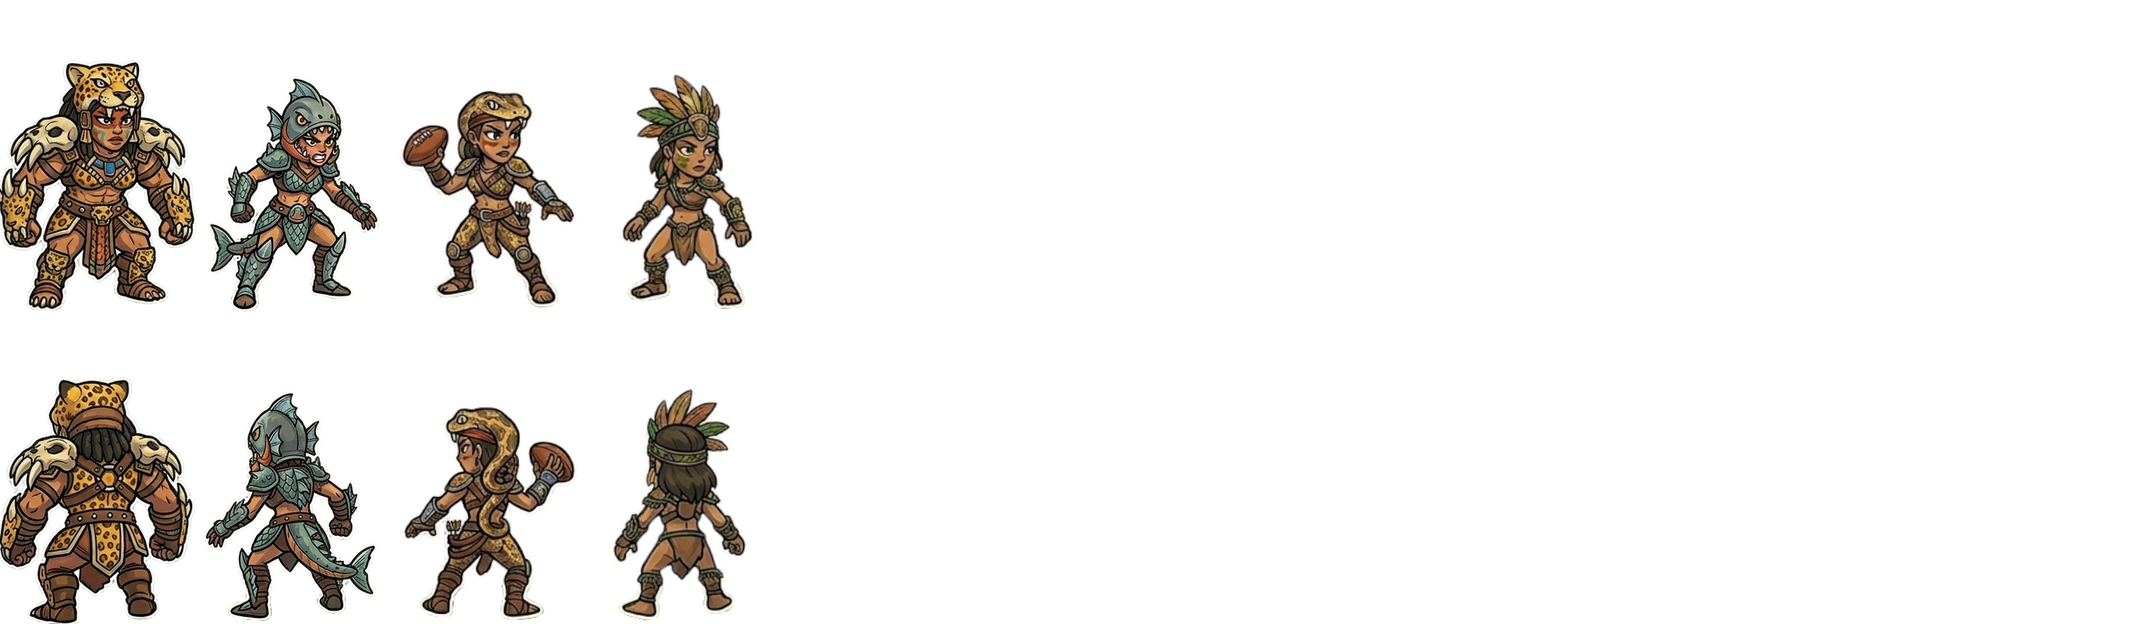
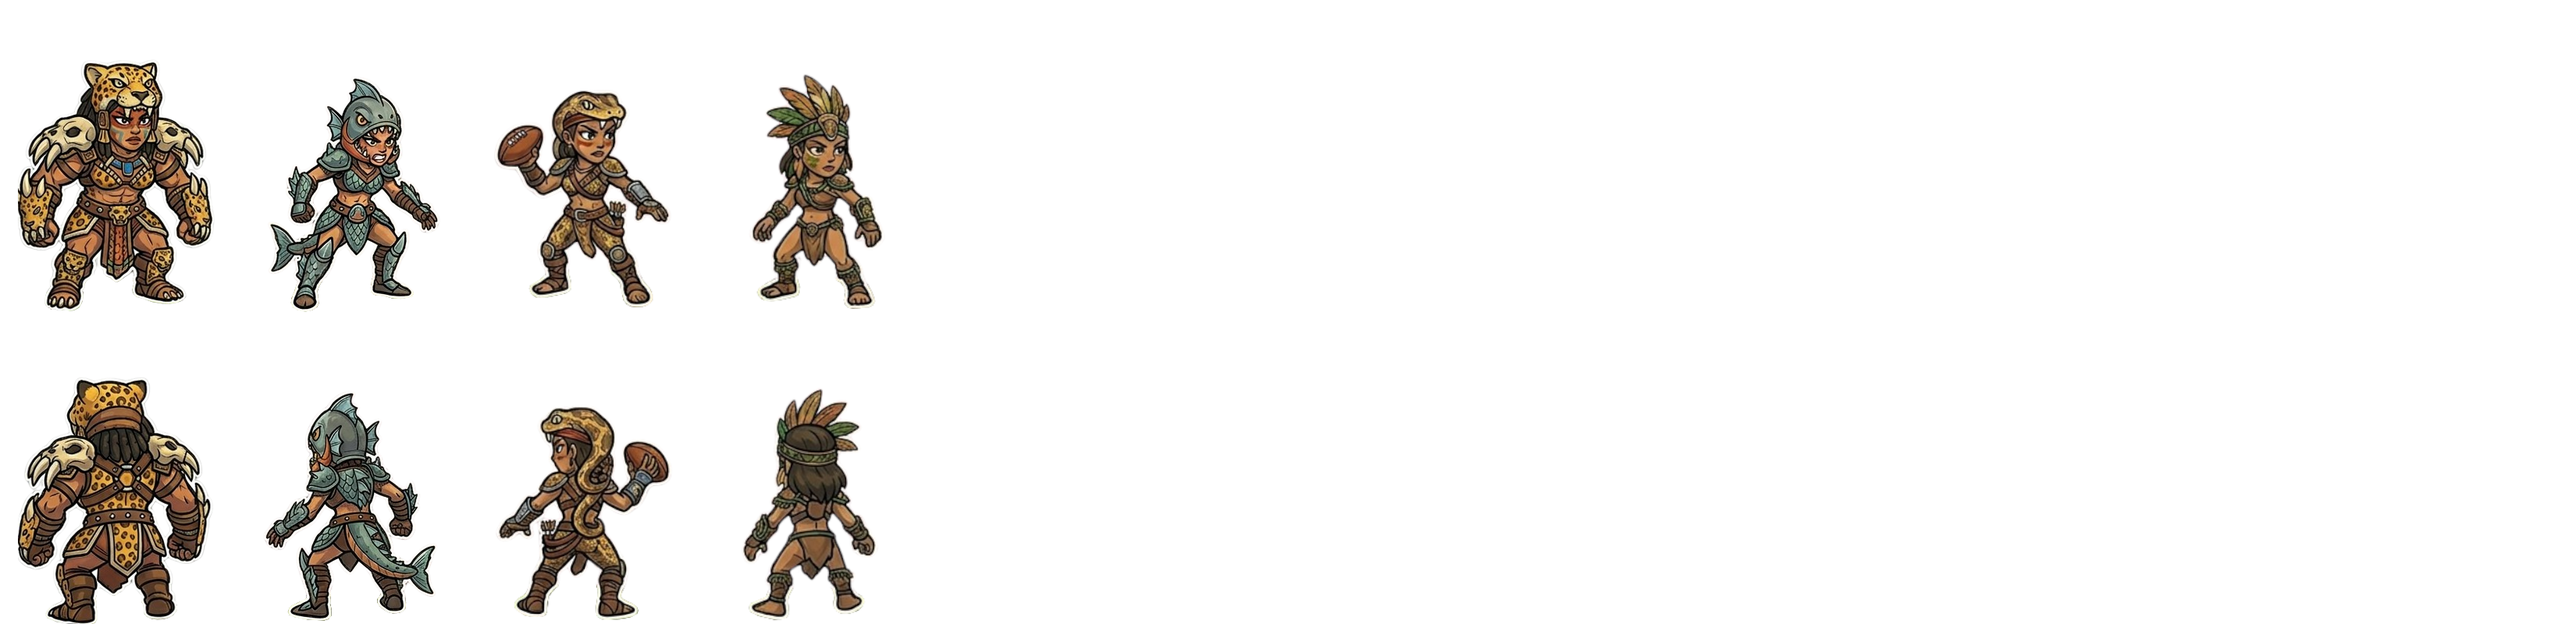
Atlas update + new rosters

Changed region(s): [[0.0, 0.5938, 0.3709, 1.0], [0.0, 0.0938, 0.3709, 0.5]]

diff --git a/packages/ffb-pitch3d/src/actors/atlases.ts b/packages/ffb-pitch3d/src/actors/atlases.ts
@@ -29,58 +29,72 @@ interface RaceAtlas {
   slots: Slot[];
 }
 
-const CELL_WIDTH = 250;
+const CELL_WIDTH = 300;
 const CELL_HEIGHT = 400;
 const COLUMNS = 11;
 const ROWS = 2;
-const PLATE_WIDTH = 0.9;
+/** Largeur monde d'une case pleine : suit le passage 250 → 300. */
+const PLATE_WIDTH = 0.9 * (300 / 250);
 const PLATE_HEIGHT = 1.45;
 
 const RACES: Record<string, { url: string; slots: Slot[] }> = {
   human: {
     url: new URL('../../assets/figurines/humans.png', import.meta.url).href,
     slots: [
-      { match: 'ogre', column: 5, trim: [60, 0, 0, 0] },
-      { match: 'blitzer', column: 4, trim: [85, 10, 0, 10] },
-      { match: 'thrower', column: 3, trim: [110, 20, 0, 15] },
-      { match: 'catcher', column: 2, trim: [115, 0, 0, 0] },
-      { match: 'halfling', column: 1, trim: [180, 20, 0, 10] },
-      { match: 'lineman', column: 0, trim: [115, 20, 0, 15] },
+      { match: 'lineman', column: 0, trim: [117, 48, 0, 39] },
+      { match: 'halfling', column: 1, trim: [176, 43, 0, 38] },
+      { match: 'catcher', column: 2, trim: [125, 30, 0, 22] },
+      { match: 'thrower', column: 3, trim: [114, 44, 0, 38] },
+      { match: 'blitzer', column: 4, trim: [85, 34, 0, 33] },
+      { match: 'ogre', column: 5, trim: [56, 0, 0, 0] },
     ],
   },
   orc: {
     url: new URL('../../assets/figurines/orcs.png', import.meta.url).href,
     slots: [
-      { match: 'troll', column: 0, trim: [68, 0, 0, 0] },
-      { match: 'bigun', column: 5, trim: [94, 0, 0, 0] },
-      { match: 'blocker', column: 5, trim: [94, 0, 0, 0] },
-      { match: 'blitzer', column: 1, trim: [110, 5, 0, 5] },
-      { match: 'thrower', column: 2, trim: [100, 43, 0, 47] },
-      { match: 'goblin', column: 4, trim: [191, 45, 0, 47] },
-      { match: 'lineman', column: 3, trim: [99, 35, 0, 42] },
+      { match: 'troll', column: 0, trim: [67, 24, 0, 25] },
+      { match: 'blitzer', column: 1, trim: [117, 29, 0, 29] },
+      { match: 'thrower', column: 2, trim: [98, 72, 0, 67] },
+      { match: 'lineman', column: 3, trim: [97, 60, 0, 66] },
+      { match: 'goblin', column: 4, trim: [196, 73, 0, 67] },
+      { match: 'bigun', column: 5, trim: [94, 25, 0, 24] },
     ],
   },
   amazon: {
     url: new URL('../../assets/figurines/amazons.png', import.meta.url).href,
     slots: [
-      { match: 'python', column: 2, trim: [114, 11, 0, 13] },
-      { match: 'thrower', column: 2, trim: [114, 11, 0, 13] },
-      { match: 'piranha', column: 1, trim: [69, 14, 0, 4] },
-      { match: 'blitzer', column: 1, trim: [69, 14, 0, 4] },
-      { match: 'jaguar', column: 0, trim: [76, 0, 0, 0] },
-      { match: 'blocker', column: 0, trim: [76, 0, 0, 0] },
-      { match: 'eagle', column: 3, trim: [94, 34, 0, 34] },
-      { match: 'lineman', column: 3, trim: [94, 34, 0, 34] },
+      { match: 'jaguar', column: 0, trim: [76, 25, 0, 23] },
+      { match: 'piranha', column: 1, trim: [98, 36, 0, 37] },
+      { match: 'python', column: 2, trim: [113, 38, 0, 33] },
+      { match: 'eagle', column: 3, trim: [93, 66, 0, 49] },
     ],
   },
   ogre: {
     url: new URL('../../assets/figurines/ogres.png', import.meta.url).href,
     slots: [
-      { match: 'gnoblar', column: 0, trim: [256, 85, 0, 64] },
-      { match: 'lineman', column: 0, trim: [256, 85, 0, 64] },
-      { match: 'punter', column: 2, trim: [86, 0, 0, 0] },
-      { match: 'blocker', column: 1, trim: [91, 0, 0, 0] },
-      { match: 'ogre', column: 1, trim: [91, 0, 0, 0] },
+      { match: 'gnoblar', column: 0, trim: [255, 100, 0, 101] },
+      { match: 'ogre', column: 1, trim: [93, 26, 0, 23] },
+      { match: 'punter', column: 2, trim: [90, 28, 0, 22] },
+    ],
+  },
+  lizardmen: {
+    url: new URL('../../assets/figurines/lizardmen.png', import.meta.url).href,
+    slots: [
+      { match: 'skink', column: 0, trim: [199, 57, 0, 60] },
+      { match: 'chameleon', column: 1, trim: [199, 43, 0, 50] },
+      { match: 'saurus', column: 2, trim: [107, 11, 0, 11] },
+      { match: 'kroxigor', column: 3, trim: [58, 0, 0, 1] },
+    ],
+  },
+  norse: {
+    url: new URL('../../assets/figurines/norses.png', import.meta.url).href,
+    slots: [
+      { match: 'yhetee', column: 0, trim: [84, 8, 0, 6] },
+      { match: 'boar', column: 1, trim: [172, 27, 0, 25] },
+      { match: 'raider', column: 2, trim: [112, 33, 0, 35] },
+      { match: 'ulf', column: 3, trim: [90, 13, 0, 5] },
+      { match: 'valkyrie', column: 4, trim: [106, 58, 0, 59] },
+      { match: 'berserker', column: 5, trim: [108, 17, 0, 14] },
     ],
   },
 };
@@ -112,10 +126,12 @@ export function disposeAtlases(): void {
   loaded.clear();
 }
 
-/** Humain, orc, amazone, ogre. Les autres races n'ont pas encore d'atlas illustré. */
+/** Humain, orc, amazone, ogre, lizardmen, norse. Les autres races n'ont pas encore d'atlas illustré. */
 export function atlasRace(race: string): string {
   const key = race.toLowerCase().replace(/[^a-z0-9]/g, '');
   if (key.includes('amazon')) return 'amazon';
+  if (key.includes('lizard')) return 'lizardmen';
+  if (key.includes('norse')) return 'norse';
   if (key.includes('ogre')) return 'ogre';
   if (key.includes('human')) return 'human';
   if (key.includes('orc')) return 'orc';
